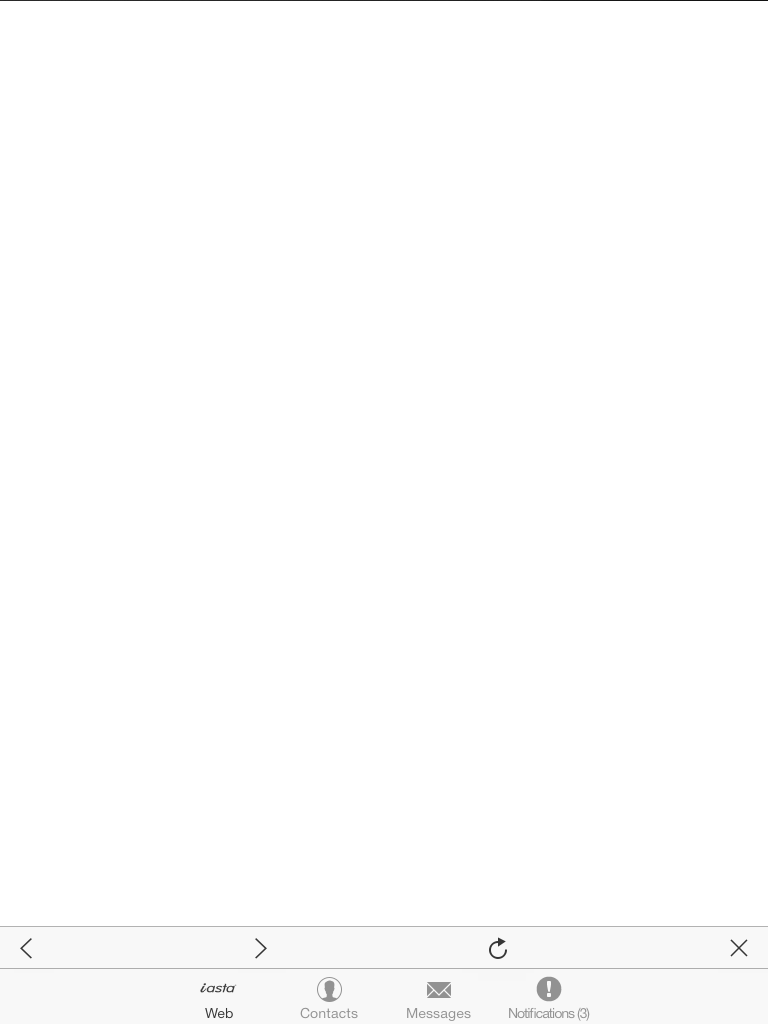
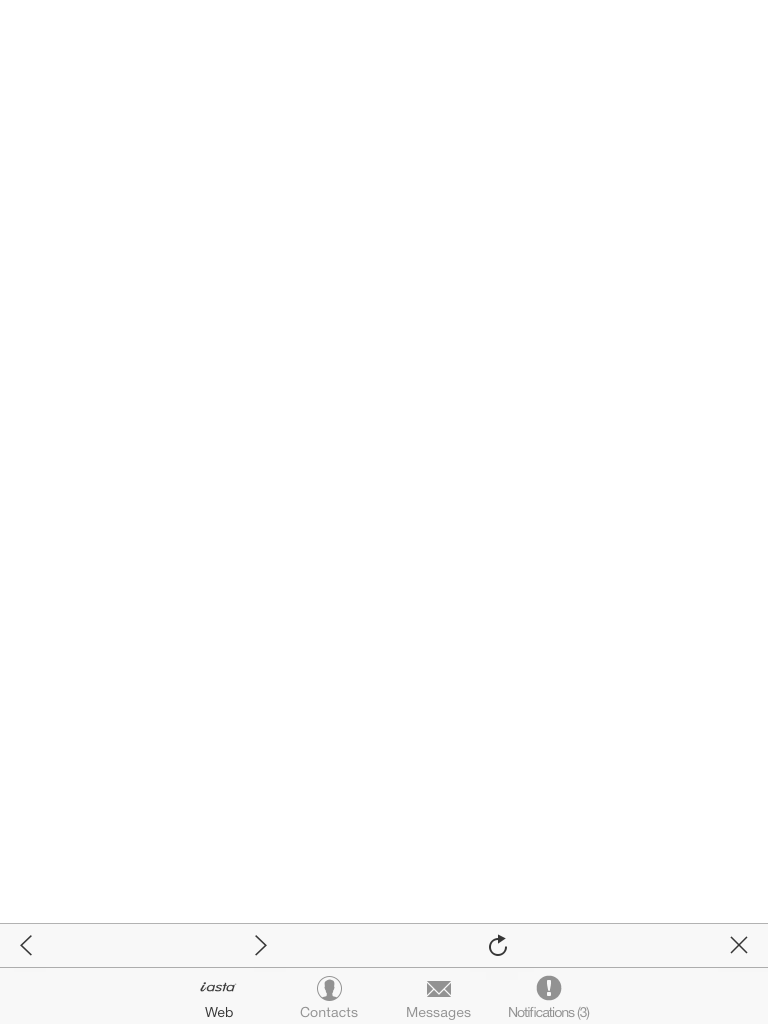
tweaks

diff --git a/app/controllers/ContactController.rb b/app/controllers/ContactController.rb
@@ -1,52 +1,53 @@
-class NotificationController < UIViewController
+class ContactController < UIViewController
   def viewDidLoad
      super
 
-     @table = UITableView.alloc.initWithFrame(self.view.bounds)
+     @table = UITableView.alloc.initWithFrame(self.view.frame)
+
     Motion::Layout.new do |layout|
       layout.view self.view
       layout.subviews table: @table
       layout.vertical "|-20-[table]-0-|"
       layout.horizontal "|-0-[table]-0-|"
     end
+
      @table.dataSource = self
      @table.delegate = self
-     @data = ['IASTA Zach submitted a profile on IASTA', 'ZacCo submitted a profile on IASTA', 'Your RFx Evaluation on IASTA has been received']
+     @impact = ['Corin Chellberg', 'Matt Jonker', 'Moses Dwaram', 'Josh Kramer', 'Daniel Doezema', 'Tim Neville', 'Zach Thompson', 'Yoshi Tanno']
+     @data = @impact + @impact + @impact + @impact + @impact
   end
 
   def tableView(tableView, cellForRowAtIndexPath: indexPath)
-    # return UITableViewCell for the row
     @reuseIdentifier ||= "CELL_IDENTIFIER"
-
     cell = tableView.dequeueReusableCellWithIdentifier(@reuseIdentifier) || begin
       UITableViewCell.alloc.initWithStyle(UITableViewCellStyleDefault, reuseIdentifier:@reuseIdentifier)
     end
-
     cell.textLabel.text = @data[indexPath.row]
     cell
-
   end
 
   def tableView(tableView, numberOfRowsInSection: section)
     @data.count
   end
 
+  def preferredStatusBarStyle
+    UIStatusBarStyleLightContent
+  end
+
+  def push
+    new_controller = DetailController.alloc.initWithNibName(nil, bundle: nil)
+    self.navigationController.pushViewController(new_controller, animated: true)
+  end
+
   def tableView(tableView, didSelectRowAtIndexPath:indexPath)
     tableView.deselectRowAtIndexPath(indexPath, animated: true)
-    UIAlertView.alert "HEY YOU! #{@data[indexPath.row]}!", buttons: ['No', 'Got it.'],
-      message: "Get it?",
-      cancel: proc { },
-      success: proc { |pressed| App.alert("Good.") if pressed == "Got it." }
+    self.push
   end
 
   def initWithNibName(name, bundle: bundle)
     super
-    self.tabBarItem = UITabBarItem.alloc.initWithTitle('Notifications (3)', image:UIImage.imageNamed('notifications.png'), tag: 1)
+      self.tabBarItem = UITabBarItem.alloc.initWithTabBarSystemItem(UITabBarSystemItemContacts, tag: 1)
     self
-  end
-
-  def preferredStatusBarStyle
-    UIStatusBarStyleLightContent
   end
 end
 

diff --git a/app/controllers/DetailController.rb b/app/controllers/DetailController.rb
@@ -1,14 +1,18 @@
-class ContactsController < UIViewController
+class DetailController < UIViewController
   def viewDidLoad
      super
 
      @table = UITableView.alloc.initWithFrame(self.view.bounds)
-     self.view.addSubview @table
+     Motion::Layout.new do |layout|
+      layout.view self.view
+      layout.subviews table: @table
+      layout.vertical "|-20-[table]-0-|"
+      layout.horizontal "|-0-[table]-0-|"
+    end
 
      @table.dataSource = self
      @table.delegate = self
-     @impact = ['Corin Chellberg', 'Matt Jonker', 'Moses Dwaram', 'Josh Kramer', 'Daniel Doezema', 'Tim Neville', 'Zach Thompson', 'Yoshi Tanno']
-     @data = @impact + @impact + @impact
+     @data = ['Name: NotTheActualUserYouClicked', 'Company: IASTA', 'Email: NotTheActualUserYouClicked@stubbed.com', 'Work Phone: 317-867-5309', 'Mobile Phone: 317-444-4444', "Driver's license expiration date: yesterday", 'Etc.']
   end
 
   def tableView(tableView, cellForRowAtIndexPath: indexPath)
@@ -21,30 +25,16 @@ class ContactsController < UIViewController
 
     cell.textLabel.text = @data[indexPath.row]
     cell
-
   end
 
   def tableView(tableView, numberOfRowsInSection: section)
     @data.count
   end
 
-  def push
-    new_controller = ContactsController.alloc.initWithNibName(nil, bundle: nil)
-    self.navigationController.pushViewController(new_controller, animated: true)
-  end
-
   def tableView(tableView, didSelectRowAtIndexPath:indexPath)
     tableView.deselectRowAtIndexPath(indexPath, animated: true)
-    self.push
-    # alert = UIAlertView.alloc.init
-    # alert.message = "#{@data[indexPath.row]} tapped!"
-    # alert.show
+    App.alert("Nope.", {cancel_button_title: "Ok :("})
   end
 
-  def initWithNibName(name, bundle: bundle)
-    super
-      self.tabBarItem = UITabBarItem.alloc.initWithTabBarSystemItem(UITabBarSystemItemContacts, tag: 1)
-    self
-  end
 end
 

diff --git a/app/app_delegate.rb b/app/app_delegate.rb
@@ -5,25 +5,19 @@ class AppDelegate
 
     webview_controller = WebViewController.alloc.initWithNibName(nil, bundle:nil)
 
-    messages_controller = TapController.alloc.initWithNibName(nil, bundle: nil)
-    messages_nav_controller = UINavigationController.alloc.initWithRootViewController(messages_controller)
-    messages_nav_controller.title = 'Messages'
+    messages_controller = MessageController.alloc.initWithNibName(nil, bundle: nil)
 
-    contacts_controller = ContactsController.alloc.initWithNibName(nil, bundle:nil)
+    contacts_controller = ContactController.alloc.initWithNibName(nil, bundle:nil)
     contacts_nav_controller = UINavigationController.alloc.initWithRootViewController(contacts_controller)
-    contacts_nav_controller.title = 'Contacts'
-
 
     notification_controller = NotificationController.alloc.initWithNibName(nil, bundle:nil)
-    notification_nav_controller = UINavigationController.alloc.initWithRootViewController(notification_controller)
 
     tab_controller = UITabBarController.alloc.initWithNibName(nil, bundle:nil)
-    # tab_controller.tabBar.setBarStyle(UIBarStyleBlack)
     tab_controller.tabBar.translucent = true
     tab_controller.tabBar.selectedImageTintColor = UIColor.redColor
     tab_controller.tabBar.tintColor = UIColor.redColor
 
-    tab_controller.viewControllers = [webview_controller, contacts_nav_controller, messages_nav_controller, notification_nav_controller]
+    tab_controller.viewControllers = [webview_controller, contacts_nav_controller, messages_controller, notification_controller]
 
     @window.rootViewController = tab_controller
 

diff --git a/app/controllers/MessageController.rb b/app/controllers/MessageController.rb
@@ -1,4 +1,4 @@
-class TapController < UIViewController
+class MessageController < UIViewController
   def viewDidLoad
     super
     self.view.backgroundColor = UIColor.whiteColor
@@ -8,13 +8,20 @@ class TapController < UIViewController
     @label.center = CGPointMake(self.view.frame.size.width / 2, self.view.frame.size.height / 2)
     self.view.addSubview @label
 
+    @label2 = UILabel.alloc.initWithFrame(CGRectZero)
+    @label2.text = "or inboxes"
+    @label2.sizeToFit
+    @label2.center = CGPointMake(self.view.frame.size.width / 2, self.view.frame.size.height / 2 + 50)
+    self.view.addSubview @label2
+
+    @label3 = UILabel.alloc.initWithFrame(CGRectZero)
+    @label3.text = ":("
+    @label3.sizeToFit
+    @label3.center = CGPointMake(self.view.frame.size.width / 2, self.view.frame.size.height / 2 + 130)
+    self.view.addSubview @label3
+
     right_button = UIBarButtonItem.alloc.initWithTitle("Push", style: UIBarButtonItemStyleBordered, target:self, action:'push' )
     self.navigationItem.rightBarButtonItem = right_button
-  end
-
-  def push
-    new_controller = TapController.alloc.initWithNibName(nil, bundle: nil)
-    self.navigationController.pushViewController(new_controller, animated: true)
   end
 
   def initWithNibName(name, bundle: bundle)

diff --git a/app/controllers/WebViewController.rb b/app/controllers/WebViewController.rb
@@ -30,7 +30,7 @@ class WebViewController < UIViewController
     Motion::Layout.new do |layout|
       layout.view view
       layout.subviews toolbar: @toolbar
-      layout.vertical "|->=20-[toolbar]-54-|"
+      layout.vertical "|->=20-[toolbar]-56-|"
       layout.horizontal "|-[toolbar]-|"
     end
 
@@ -42,10 +42,6 @@ class WebViewController < UIViewController
 
   def preferredStatusBarStyle
     UIStatusBarStyleLightContent
-  end
-
-  def webViewDidStartLoad(webView)
-    UIApplication.sharedApplication.networkActivityIndicatorVisible = true
   end
 
   def initWithNibName(name, bundle: bundle)
